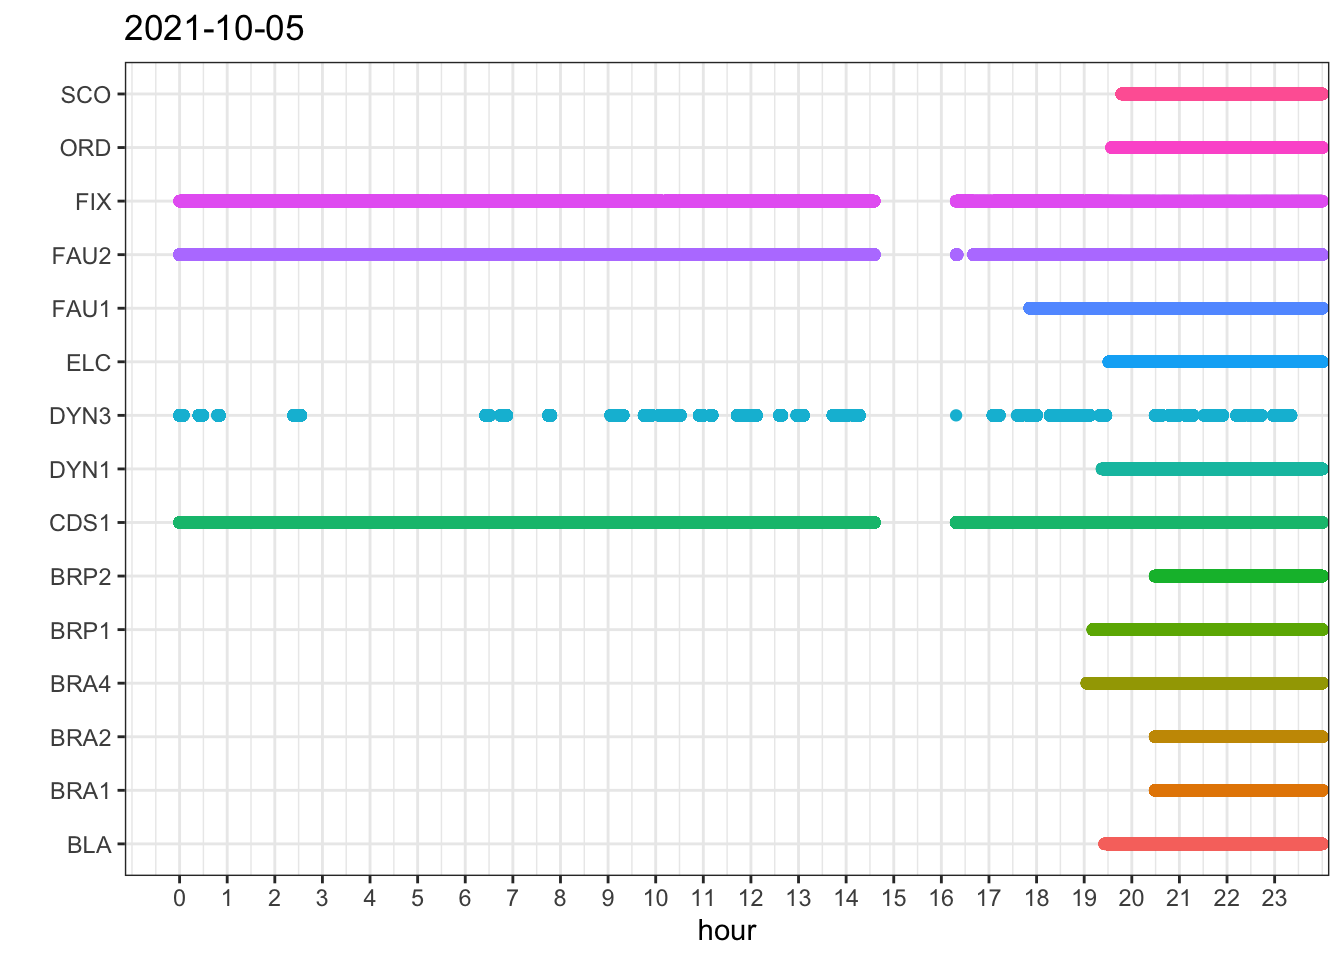
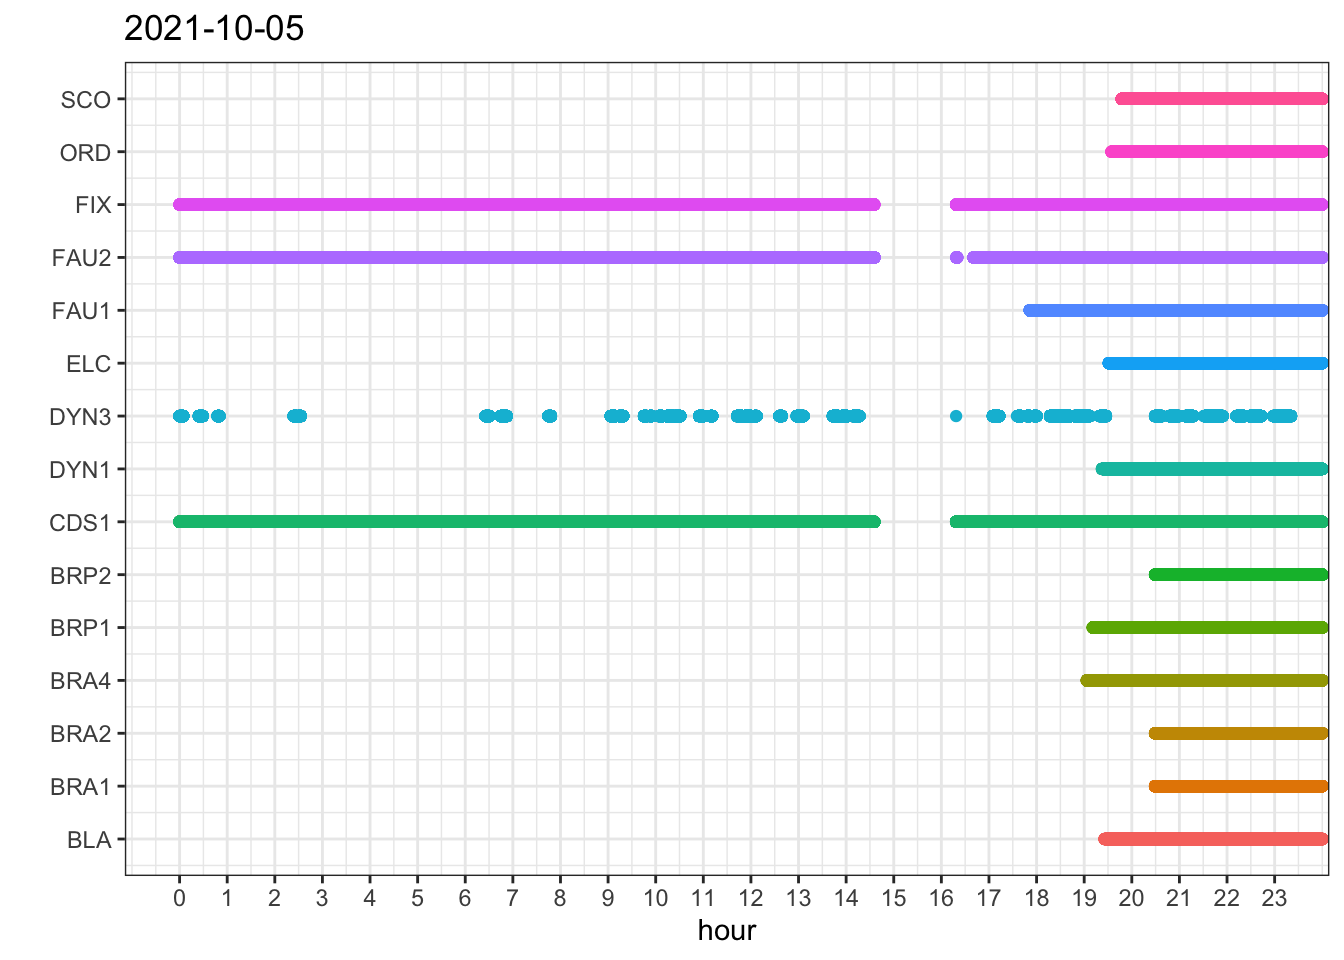
Build site.

diff --git a/docs/2021-10-05.html b/docs/2021-10-05.html
@@ -500,16 +500,16 @@ This reproducible <a href="http://rmarkdown.rstudio.com">R Markdown</a> analysis
 <div class="panel panel-default">
 <div class="panel-heading">
 <p class="panel-title">
-<a data-toggle="collapse" data-parent="#workflowr-checks" href="#strongRepositoryversionstrongahrefhttpsgithubcomcfcforeverTesttreead88acc9c792fd6b4471d5e824cca78418493b26targetblankad88acca"> <span class="glyphicon glyphicon-ok text-success" aria-hidden="true"></span> <strong>Repository version:</strong> <a href="https://github.com/cfcforever/Test/tree/ad88acc9c792fd6b4471d5e824cca78418493b26" target="_blank">ad88acc</a> </a>
+<a data-toggle="collapse" data-parent="#workflowr-checks" href="#strongRepositoryversionstrongahrefhttpsgithubcomcfcforeverTesttree41d694ac29cc256313a21d74d0a692a1ed33d2b6targetblank41d694aa"> <span class="glyphicon glyphicon-ok text-success" aria-hidden="true"></span> <strong>Repository version:</strong> <a href="https://github.com/cfcforever/Test/tree/41d694ac29cc256313a21d74d0a692a1ed33d2b6" target="_blank">41d694a</a> </a>
 </p>
 </div>
[2 lines of base64/hex data omitted]
 <div class="panel-body">
 <p>
 Great! You are using Git for version control. Tracking code development and connecting the code version to the results is critical for reproducibility.
 </p>
 <p>
-The results in this page were generated with repository version <a href="https://github.com/cfcforever/Test/tree/ad88acc9c792fd6b4471d5e824cca78418493b26" target="_blank">ad88acc</a>. See the <em>Past versions</em> tab to see a history of the changes made to the R Markdown and HTML files.
+The results in this page were generated with repository version <a href="https://github.com/cfcforever/Test/tree/41d694ac29cc256313a21d74d0a692a1ed33d2b6" target="_blank">41d694a</a>. See the <em>Past versions</em> tab to see a history of the changes made to the R Markdown and HTML files.
 </p>
 <p>
 Note that you need to be careful to ensure that all relevant files for the analysis have been committed to Git prior to generating the results (you can use <code>wflow_publish</code> or <code>wflow_git_commit</code>). workflowr only checks the R Markdown file, but you know if there are other scripts or data files that it depends on. Below is the status of the Git repository when the results were generated:
@@ -527,7 +527,7 @@ Ignored files:
     Ignored:    workflowr.R
 
 Unstaged changes:
-    Modified:   analysis/2021-10-06.Rmd
+    Modified:   code/packages_and_functions.R
 
 </code></pre>
 <p>
@@ -566,6 +566,40 @@ Message
 </tr>
 </thead>
 <tbody>
+<tr>
+<td>
+Rmd
+</td>
+<td>
+<a href="https://github.com/cfcforever/Test/blob/41d694ac29cc256313a21d74d0a692a1ed33d2b6/analysis/2021-10-05.Rmd" target="_blank">41d694a</a>
+</td>
+<td>
+cfcforever
+</td>
+<td>
+2021-10-06
+</td>
+<td>
+add new analysis
+</td>
+</tr>
+<tr>
+<td>
+html
+</td>
+<td>
+<a href="https://rawcdn.githack.com/cfcforever/Test/2d62a137fbd59ee75f738040dedd46548daddf21/docs/2021-10-05.html" target="_blank">2d62a13</a>
+</td>
+<td>
+cfcforever
+</td>
+<td>
+2021-10-06
+</td>
+<td>
+Build site.
+</td>
+</tr>
 <tr>
 <td>
 html
@@ -800,6 +834,7 @@ nb_tag = length(tagId)
 
 dat = dat[dat$tag%in%tagId,]
 dat$label = factor(dat$tag, levels = names_tag$id, labels = names_tag$label)
+dat$tagn = as.numeric(factor(dat$tag, levels = names_tag$id, labels = 1:nb_tag))
 
 list_tag &lt;- split(dat, dat$tag)</code></pre>
 <div id="quality-of-collecting-data" class="section level2">
@@ -1885,8 +1920,10 @@ SCO
 <h3>plot with NAs</h3>
 <pre class="r"><code>timestamp_breaks = as.numeric(as.POSIXct(paste0(today, &quot; &quot;, sprintf(&quot;%02d&quot;, 0:23), &quot;:00:00 CEST&quot;))) + 3600*6
 p &lt;- ggplot(dat) + theme_bw() + 
-  geom_point(aes(x=record_timestamp, y=label, col=label)) +
+  geom_point(aes(x=record_timestamp, y=tagn, col=tagn)) +
   scale_x_continuous(breaks = timestamp_breaks, labels = 0:23) +
+  scale_y_continuous(breaks = 1:nb_tag, labels = names_tag$label) + 
+  scale_color_gradientn(colours = hue_pal()(nb_tag)) + 
   coord_cartesian(xlim = c(timestamp_breaks[1], timestamp_breaks[23]+3600)) +
   theme(legend.position = &quot;None&quot;) +
   labs(x = &quot;hour&quot;, y = &quot;&quot;, title = today)
@@ -1977,8 +2014,10 @@ cat(&quot;if x_na = y_na:&quot;, identical(x_na, y_na), &quot;\n&quot;)</code></
 }</code></pre>
 <pre class="r"><code>timestamp_breaks = as.numeric(as.POSIXct(paste0(today, &quot; &quot;, sprintf(&quot;%02d&quot;, 0:23), &quot;:00:00 CEST&quot;))) + 3600*6
 p &lt;- ggplot(dat) + theme_bw() + 
-  geom_point(aes(x=record_timestamp, y=label, col=label)) +
+  geom_point(aes(x=record_timestamp, y=tagn, col=tagn)) +
   scale_x_continuous(breaks = timestamp_breaks, labels = 0:23) +
+  scale_y_continuous(breaks = 1:nb_tag, labels = names_tag$label) + 
+  scale_color_gradientn(colours = hue_pal()(nb_tag)) + 
   coord_cartesian(xlim = c(timestamp_breaks[1], timestamp_breaks[23]+3600)) +
   theme(legend.position = &quot;None&quot;) +
   labs(x = &quot;hour&quot;, y = &quot;&quot;, title = today)
@@ -2095,9 +2134,9 @@ p &lt;- ggplot(plan) + theme_bw() +
       geom_point(data = dd, aes(x=x,y=y), col=&quot;red&quot;, size = 1) +
       coord_equal(ratio = 1, xlim = c(-35,5), ylim = c(-60,5)) + 
       labs(x = &quot;&quot;, y = &quot;&quot;, title = paste0(tag, &quot; - &quot;, names_tag$Matériel[names_tag$id==tag]))
-    print(q) 
+    print(q)
   }else{
-    message(&quot;NO DATA for plot!!&quot;)
+    cat(&quot;NO DATA for plot!!&quot;)
   }
   cat(&quot;\n&quot;)
 }</code></pre>
@@ -2991,9 +3030,10 @@ attached base packages:
 [1] stats     graphics  grDevices utils     datasets  methods   base     
 
 other attached packages:
- [1] DT_0.17          readxl_1.3.1     lubridate_1.7.10 dplyr_1.0.6     
- [5] nnet_7.3-14      kableExtra_1.1.0 rjson_0.2.20     cowplot_1.1.0   
- [9] gifski_0.8.6     gganimate_1.0.7  ggplot2_3.3.3    workflowr_1.6.2 
+ [1] scales_1.1.1     DT_0.17          readxl_1.3.1     lubridate_1.7.10
+ [5] dplyr_1.0.6      nnet_7.3-14      kableExtra_1.1.0 rjson_0.2.20    
+ [9] cowplot_1.1.0    gifski_0.8.6     gganimate_1.0.7  ggplot2_3.3.3   
+[13] workflowr_1.6.2 
 
 loaded via a namespace (and not attached):
  [1] progress_1.2.2    tidyselect_1.1.0  xfun_0.25         purrr_0.3.4      
@@ -3004,13 +3044,13 @@ loaded via a namespace (and not attached):
 [21] cellranger_1.1.0  munsell_0.5.0     gtable_0.3.0      rvest_1.0.0      
 [25] htmlwidgets_1.5.1 evaluate_0.14     labeling_0.3      knitr_1.33       
 [29] httpuv_1.5.4      fansi_0.4.1       highr_0.8         Rcpp_1.0.5       
-[33] readr_1.4.0       promises_1.1.1    scales_1.1.1      backports_1.1.8  
-[37] webshot_0.5.2     farver_2.0.3      fs_1.5.0          hms_1.0.0        
-[41] digest_0.6.25     stringi_1.4.6     grid_4.0.2        rprojroot_1.3-2  
-[45] tools_4.0.2       magrittr_2.0.1    tibble_3.1.1      crayon_1.4.1     
-[49] whisker_0.4       pkgconfig_2.0.3   ellipsis_0.3.1    xml2_1.3.2       
-[53] prettyunits_1.1.1 httr_1.4.2        rstudioapi_0.13   assertthat_0.2.1 
-[57] rmarkdown_2.10    R6_2.4.1          git2r_0.28.0      compiler_4.0.2   </code></pre>
+[33] readr_1.4.0       promises_1.1.1    backports_1.1.8   webshot_0.5.2    
+[37] farver_2.0.3      fs_1.5.0          hms_1.0.0         digest_0.6.25    
+[41] stringi_1.4.6     grid_4.0.2        rprojroot_1.3-2   tools_4.0.2      
+[45] magrittr_2.0.1    tibble_3.1.1      crayon_1.4.1      whisker_0.4      
+[49] pkgconfig_2.0.3   ellipsis_0.3.1    xml2_1.3.2        prettyunits_1.1.1
+[53] httr_1.4.2        rstudioapi_0.13   assertthat_0.2.1  rmarkdown_2.10   
+[57] R6_2.4.1          git2r_0.28.0      compiler_4.0.2   </code></pre>
 </div>
 </div>
 </div>
